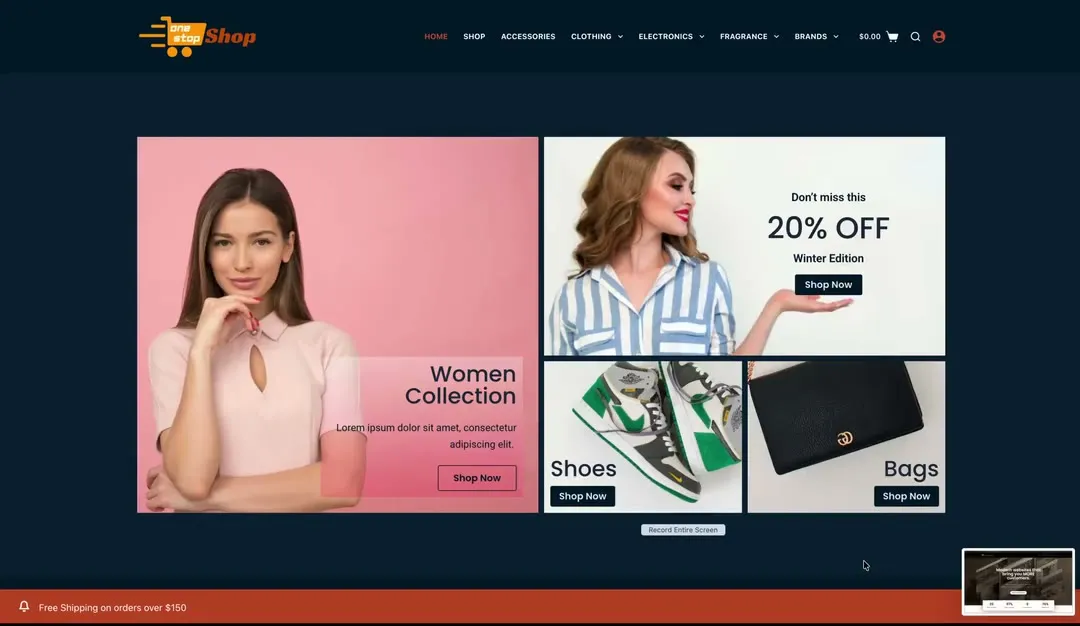
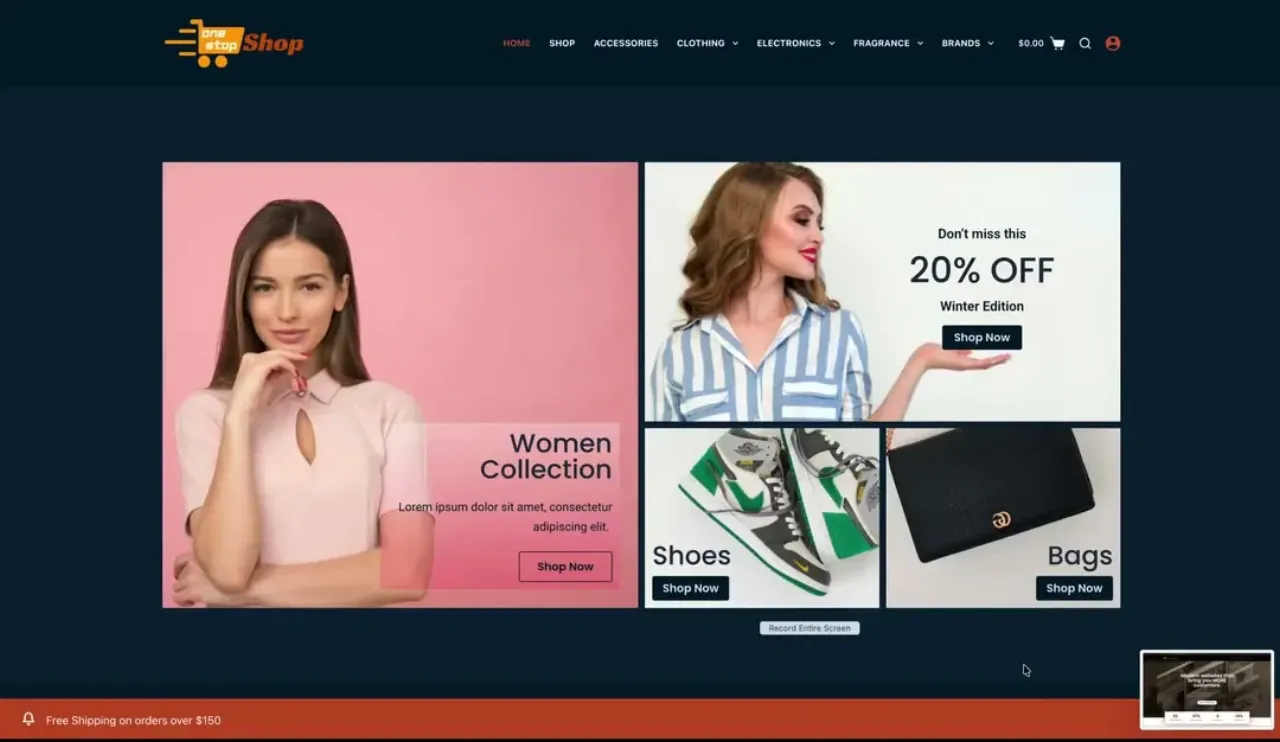
performance: non-blocking fonts, smaller posters, composited fill animation
- Load Google Fonts with preload+onload to eliminate render-blocking (saves ~1,880ms on LCP)
- Recompress video poster images from ~2866px to 1280px at q80 (~55% smaller, saves ~370 KiB)
- Switch journey fill animation from width/height to transform:scale so it runs on the GPU compositor
- Fix llms.txt links to use Markdown format so AI crawlers count them as links

diff --git a/index.css b/index.css
@@ -191,7 +191,7 @@ h3{font-size:clamp(1.2rem,1.8vw,1.5rem);font-weight:600;letter-spacing:-.015em;l
 .journey h2{margin-top:1rem;font-size:clamp(1.7rem,3.2vw,2.3rem)}
 .jflow{position:relative;display:grid;grid-template-columns:repeat(4,1fr);gap:1.5rem;max-width:980px}
 .jline{position:absolute;top:27px;left:0;right:0;height:3px;margin:0 12.5%;z-index:0;border-radius:3px;background:repeating-linear-gradient(90deg,rgba(30,58,52,.20) 0 6px,transparent 6px 12px)}
-.jline .fill{position:absolute;left:0;top:0;height:100%;width:0;background:var(--pine);border-radius:3px;transition:width .12s linear}
+.jline .fill{position:absolute;left:0;top:0;height:100%;width:100%;background:var(--pine);border-radius:3px;transform:scaleX(0);transform-origin:left center;transition:transform .12s linear}
 .jline .fill::after{content:"";position:absolute;right:-5px;top:50%;width:11px;height:11px;border-radius:50%;background:var(--terra);transform:translateY(-50%);box-shadow:0 0 0 5px rgba(192,106,69,.20);opacity:0;transition:opacity .3s var(--ease)}
 .jflow.moving .jline .fill::after{opacity:1}
 .jnode{position:relative;z-index:1;text-align:center;padding:0 .3rem}
@@ -462,7 +462,7 @@ h3{font-size:clamp(1.2rem,1.8vw,1.5rem);font-weight:600;letter-spacing:-.015em;l
   /* journey stacks into a skimmable vertical timeline */
   .jflow{grid-template-columns:1fr;gap:0;max-width:460px}
   .jline{top:0;bottom:0;left:28px;right:auto;width:3px;height:auto;margin:44px 0;background:repeating-linear-gradient(180deg,rgba(30,58,52,.20) 0 6px,transparent 6px 12px)}
-  .jline .fill{width:100%;height:0;transition:height .12s linear}
+  .jline .fill{width:100%;height:100%;transform:scaleY(0);transform-origin:top center;transition:transform .12s linear}
   .jline .fill::after{right:50%;top:auto;bottom:-5px;transform:translateX(50%)}
   .jnode{display:grid;grid-template-columns:auto 1fr;align-items:start;gap:1.1rem;text-align:left;padding:14px 0}
   .jdot{margin:0;width:56px;height:56px}
@@ -490,7 +490,7 @@ h3{font-size:clamp(1.2rem,1.8vw,1.5rem);font-weight:600;letter-spacing:-.015em;l
 @media(prefers-reduced-motion:reduce){
   *,*::before,*::after{animation-duration:.01ms !important;transition-duration:.01ms !important;scroll-behavior:auto !important}
   [data-reveal]{opacity:1;transform:none}
-  .jline .fill{width:100% !important;height:100% !important}
+  .jline .fill{transform:scaleX(1) !important}
   .jnode .jstep{opacity:1;transform:none}
   .jdot{background:var(--pine);border-color:var(--pine);color:var(--paper)}
   .jnode .jsub{opacity:1}

diff --git a/index.js b/index.js
@@ -480,11 +480,9 @@
       var end = vh * 0.35;     // fully filled by the time it reaches 35%
       var p = Math.max(0, Math.min(1, (start - r.top) / (start - end + r.height)));
       if(isVertical()){
-        fill.style.height = (p * 100) + '%';
-        fill.style.width = '100%';
+        fill.style.transform = 'scaleY(' + p + ')';
       } else {
-        fill.style.width = (p * 100) + '%';
-        fill.style.height = '100%';
+        fill.style.transform = 'scaleX(' + p + ')';
       }
       flow.classList.toggle('moving', p > 0.01 && p < 0.99);
       nodes.forEach(function(n){

diff --git a/index.html b/index.html
@@ -30,7 +30,8 @@ j=d.createElement(s),dl=l!='dataLayer'?'&l='+l:'';j.async=true;j.src=
 
 <link rel="preconnect" href="https://fonts.googleapis.com">
 <link rel="preconnect" href="https://fonts.gstatic.com" crossorigin>
-<link href="https://fonts.googleapis.com/css2?family=Cormorant+Garamond:ital,wght@1,400;1,500;1,600&family=Hanken+Grotesk:wght@400;500;600;700;800&display=swap" rel="stylesheet">
+<link rel="preload" href="https://fonts.googleapis.com/css2?family=Cormorant+Garamond:ital,wght@1,400;1,500;1,600&family=Hanken+Grotesk:wght@400;500;600;700;800&display=swap" as="style" onload="this.onload=null;this.rel='stylesheet'">
+<noscript><link rel="stylesheet" href="https://fonts.googleapis.com/css2?family=Cormorant+Garamond:ital,wght@1,400;1,500;1,600&family=Hanken+Grotesk:wght@400;500;600;700;800&display=swap"></noscript>
 
 <script type="application/ld+json">
 {